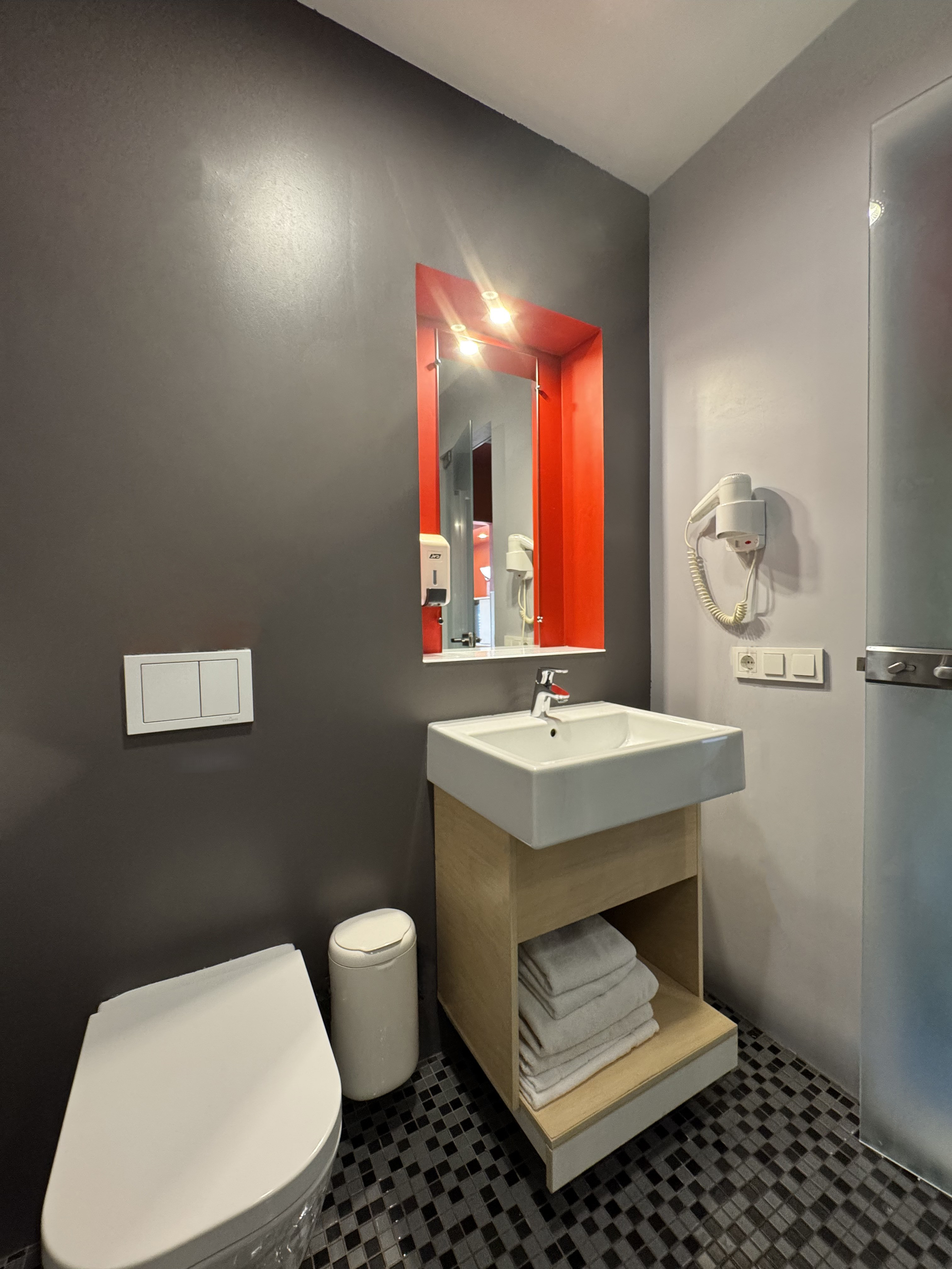
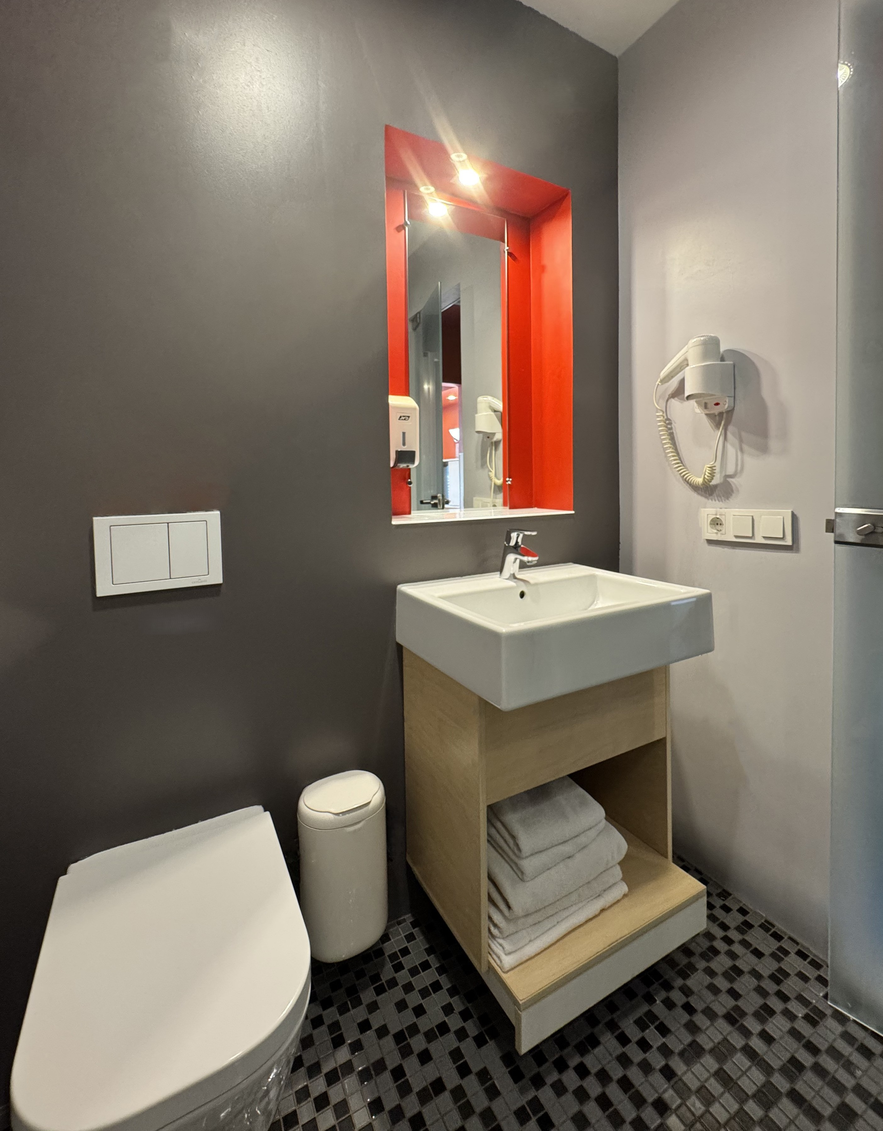
open detail page about room with image and title

diff --git a/rooms.js b/rooms.js
@@ -2,7 +2,6 @@ async function loadRoomsPage() {
     const list = document.getElementById('rooms-list');
 
     try {
-        // Завантажуємо дані про номери з JSON-файлу
         const response = await fetch('rooms.json');
 
         if (!response.ok) {
@@ -13,7 +12,6 @@ async function loadRoomsPage() {
 
         const data = await response.json();
 
-        // Заповнюємо основну інформацію сторінки
         document.title = `Sleeport hotel — ${data.title || 'Номерний фонд'}`;
 
         document.getElementById('rooms-title').textContent =
@@ -28,7 +26,7 @@ async function loadRoomsPage() {
         document.getElementById('common-note').textContent =
             data.commonNote || '';
 
-            document.getElementById('add-note').textContent =
+        document.getElementById('add-note').textContent =
             data.addNote || '';
 
         document.getElementById('rooms-bottom-note').textContent =
@@ -37,99 +35,76 @@ async function loadRoomsPage() {
         document.getElementById('contacts-link').textContent =
             data.contactsLinkText || 'Контакти готелю';
 
-        // Формуємо список стандартних зручностей
         const commonFeatures = document.getElementById('common-features');
-
         commonFeatures.replaceChildren();
 
         (data.commonFeatures || []).forEach(feature => {
             const item = document.createElement('li');
-
             item.textContent = feature;
-
             commonFeatures.appendChild(item);
         });
 
-        // Готуємо контейнер для карток номерів
         list.replaceChildren();
 
-        // Відображаємо тільки категорії, які не приховані
         const visibleRooms = (data.rooms || []).filter(
             room => room.visible !== false
         );
 
         if (visibleRooms.length === 0) {
-            list.textContent =
-                'Наразі категорії номерів не опубліковані.';
-
+            list.textContent = 'Наразі категорії номерів не опубліковані.';
             return;
         }
 
-        // Створюємо картку для кожного номера
         visibleRooms.forEach(room => {
             const article = document.createElement('article');
-
             article.className = 'room-card';
 
-            // Фотографія номера
-            const photo = document.createElement('div');
+            const detailsUrl = `room-details.html?category=${encodeURIComponent(room.id || '')}`;
 
-            photo.className = 'room-photo';
+            const photoLink = document.createElement('a');
+            photoLink.className = 'room-photo';
+            photoLink.href = detailsUrl;
+            photoLink.setAttribute('aria-label', `Детальніше про номер ${room.name || ''}`);
 
             const img = document.createElement('img');
-
             img.src = room.image || '';
             img.alt = room.imageAlt || room.name || 'Номер готелю';
             img.loading = 'lazy';
 
-            photo.appendChild(img);
+            photoLink.appendChild(img);
 
-            // Основна інформація
             const info = document.createElement('div');
-
             info.className = 'room-info';
 
-            // Номер категорії
             const category = document.createElement('span');
-
             category.className = 'room-category';
 
-            category.textContent =
-                `${String(room.number || '').padStart(2, '0')} / КАТЕГОРІЯ`;
-
-            // Назва номера
             const title = document.createElement('h2');
+            const titleLink = document.createElement('a');
+            titleLink.href = detailsUrl;
+            titleLink.textContent = room.name || '';
+            titleLink.style.color = 'inherit';
+            titleLink.style.textDecoration = 'none';
+            title.appendChild(titleLink);
 
-            title.textContent = room.name || '';
-
-            // Опис номера
             const description = document.createElement('p');
-
             description.className = 'room-description';
             description.textContent = room.description || '';
 
-            // Заголовок переліку зручностей
             const listTitle = document.createElement('p');
-
             listTitle.className = 'room-list-title';
             listTitle.textContent = 'У номері:';
 
-            // Перелік зручностей
             const features = document.createElement('ul');
-
             features.className = 'room-features';
 
             (room.features || []).forEach(feature => {
                 const li = document.createElement('li');
-
                 li.textContent = feature;
-
                 features.appendChild(li);
             });
 
-            // Вартість проживання
             const price = document.createElement('div');
-
             price.className = 'room-price';
 
             const amount = document.createElement('strong');
@@ -147,39 +122,25 @@ async function loadRoomsPage() {
             }
 
             const period = document.createElement('span');
-
             period.textContent = ` / ${data.pricePeriod || 'доба'}`;
 
             price.append(amount, period);
 
-            // Кнопки дій
             const actions = document.createElement('div');
-
             actions.className = 'room-actions';
 
-            // Детальна інформація про номер
             const details = document.createElement('a');
-
             details.className = 'room-details-button';
-
-            details.href =
-                `room-details.html?category=${encodeURIComponent(room.id || '')}`;
-
+            details.href = detailsUrl;
             details.textContent = 'Детальніше';
 
-            // Бронювання номера
             const booking = document.createElement('a');
-
             booking.className = 'room-book-button';
-
-            booking.href =
-                `booking.html?room=${encodeURIComponent(room.id || '')}`;
-
+            booking.href = `booking.html?room=${encodeURIComponent(room.id || '')}`;
             booking.textContent = 'Забронювати';
 
             actions.append(details, booking);
 
-            // Об'єднуємо всі елементи картки
             info.append(
                 category,
                 title,
@@ -190,8 +151,7 @@ async function loadRoomsPage() {
                 actions
             );
 
-            article.append(photo, info);
-
+            article.append(photoLink, info);
             list.appendChild(article);
         });
 
@@ -205,12 +165,9 @@ async function loadRoomsPage() {
     }
 }
 
-
-// Запускаємо завантаження сторінки
 document.addEventListener('DOMContentLoaded', () => {
     loadRoomsPage();
 
-    // Налаштовуємо копіювання телефонних номерів
     document.querySelectorAll('[data-phone]').forEach(button => {
         button.addEventListener('click', async () => {
             const phone = button.dataset.phone;
@@ -219,7 +176,6 @@ document.addEventListener('DOMContentLoaded', () => {
                 await navigator.clipboard.writeText(phone);
 
                 const previousText = button.textContent;
-
                 button.textContent = 'Скопійовано';
 
                 window.setTimeout(() => {

diff --git a/style.css b/style.css
@@ -762,6 +762,7 @@ main.rooms-page {
     font-size: 25px;
     font-weight: 500;
     line-height: 1.3;
+    font-weight: bold;
 }
 
 .room-description {
